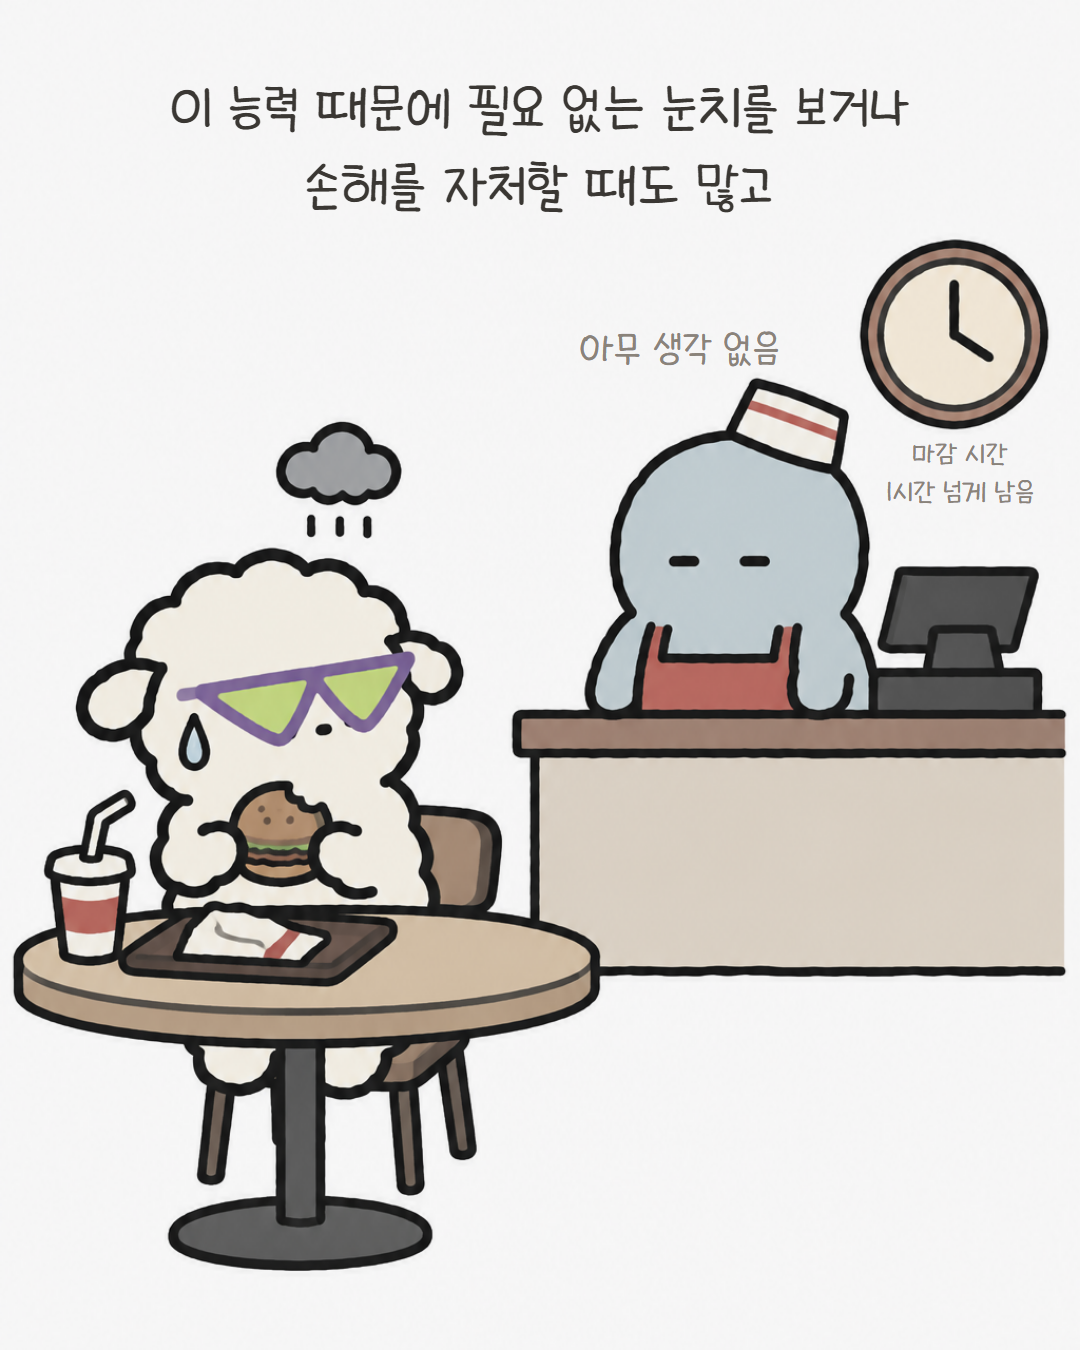
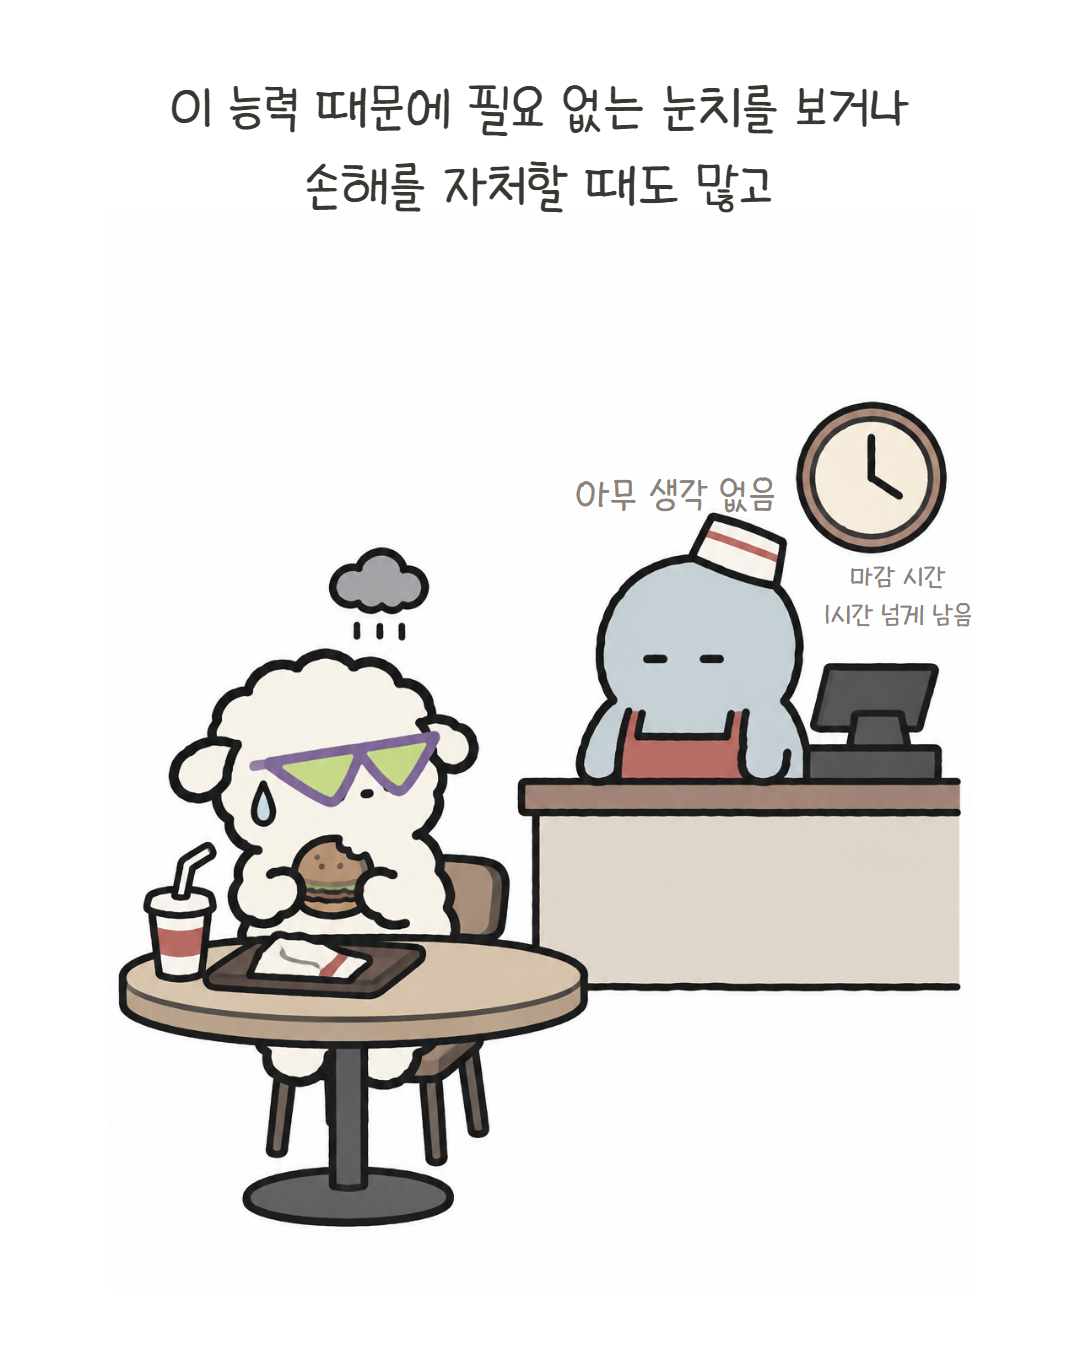
제목 「작은 힘에도 작은 책임은 따른다」로 변경, EP.01 제목·표지 폰트(콘콘체) 교체, 그림 80% 축소, 캡션 레퍼런스 벤치마크 반영

Changed region(s): [[0.0, 0.1556, 1.0, 0.9644]]

diff --git a/episodes/ep01/compose.html b/episodes/ep01/compose.html
@@ -2,54 +2,55 @@
 <html lang="ko">
 <head>
 <meta charset="utf-8">
-<title>EP.01 합성 — 말하지 않은 마음까지 읽는 초능력자</title>
+<title>EP.01 합성 — 알고 싶지 않은 마음까지 읽을 수 있는 초능력</title>
 <link href="https://fonts.googleapis.com/css2?family=Nanum+Pen+Script&display=swap" rel="stylesheet">
 <style>
+  @font-face{font-family:'CornCorn';src:url('https://cdn.jsdelivr.net/gh/projectnoonnu/2412-1@1.0/Ownglyph_corncorn-Rg.woff2') format('woff2');font-display:swap}
   @font-face{font-family:'KyoboHand';src:url('https://cdn.jsdelivr.net/gh/projectnoonnu/noonfonts_20-04@1.0/KyoboHand.woff') format('woff');font-display:swap}
   :root{--ink:#3A3733;--point:#C77B3F;--gray:#8A837A}
   *{box-sizing:border-box}
   body{margin:0;background:#ddd}
   section{position:relative;width:1080px;height:1350px;overflow:hidden;background:#fff;margin:0 auto 20px;font-family:'KyoboHand',sans-serif;color:var(--ink)}
-  section img.art{position:absolute;inset:0;width:1080px;height:1350px;object-fit:cover;object-position:50% 100%}
+  section img.art{position:absolute;left:0;bottom:60px;width:1080px;height:1350px;object-fit:cover;object-position:50% 100%;transform:scale(.8);transform-origin:50% 100%}
   section.cover img.art{object-fit:contain;object-position:50% 100%}
   .series{position:absolute;top:84px;left:80px;right:80px;text-align:center;font-size:44px;color:var(--gray);letter-spacing:.02em}
-  .title{position:absolute;top:150px;left:60px;right:60px;text-align:center;font-family:'Nanum Pen Script',cursive;font-size:118px;line-height:1.12;letter-spacing:-.01em}
+  .title{position:absolute;top:150px;left:40px;right:40px;text-align:center;font-family:'CornCorn',cursive;font-size:112px;line-height:1.18;letter-spacing:-.01em}
   .title b{font-weight:400;color:var(--point)}
   .narr{position:absolute;top:70px;left:50px;right:50px;text-align:center;font-size:56px;line-height:1.4;white-space:pre}
   .mind{position:absolute;font-size:40px;line-height:1.35;color:var(--gray);white-space:pre-line}
   .mind.s{font-size:30px}
   .mind.t{font-size:38px;color:#6E6862;background:#fff;padding:2px 10px}
-  #s7 img.art{transform:scale(.92);transform-origin:50% 100%}
   #s7 .cta{top:250px;bottom:auto}
   .cta{position:absolute;left:70px;right:70px;bottom:44px;text-align:center;font-size:38px;color:var(--point)}
-  .dim img.art{filter:saturate(.75) brightness(.97)}
+  .dim img.art{filter:saturate(.7)}
+  #s1 img.art{bottom:0}
 </style>
 </head>
 <body>
 
 <section class="cover" id="s0">
   <img class="art" src="img/cover.png" alt="">
-  <div class="series">당신은 약간 초능력자?</div>
-  <div class="title">말하지 않은 <b>마음</b>까지 읽는<br>초능력자</div>
+  <div class="series">작은 힘에도 작은 책임은 따른다</div>
+  <div class="title"><b>알고 싶지 않은</b> 마음까지<br>읽을 수 있는 초능력</div>
 </section>
 
 <section id="s1">
   <img class="art" src="img/cut1.png" alt="" style="object-position:50% 50%">
   <div class="narr">나는 사람들이 말하지 않아도
 그들의 마음을 읽을 수 있다.</div>
-  <div class="mind t" style="left:70px;top:500px">배고파</div>
-  <div class="mind t" style="right:70px;top:560px">집 가고 싶다</div>
-  <div class="mind t" style="left:90px;top:740px">괜찮은 척 하는 중</div>
-  <div class="mind t" style="right:90px;top:820px">쟤 왜 저래</div>
-  <div class="mind t" style="left:60px;top:960px">월요일 싫어</div>
-  <div class="mind t" style="right:60px;top:1010px">그냥 좀 쉬고 싶다</div>
+  <div class="mind t" style="left:164px;top:670px">배고파</div>
+  <div class="mind t" style="right:164px;top:718px">집 가고 싶다</div>
+  <div class="mind t" style="left:180px;top:862px">괜찮은 척 하는 중</div>
+  <div class="mind t" style="right:180px;top:926px">쟤 왜 저래</div>
+  <div class="mind t" style="left:156px;top:1038px">월요일 싫어</div>
+  <div class="mind t" style="right:156px;top:1078px">그냥 좀 쉬고 싶다</div>
 </section>
 
 <section id="s2">
   <img class="art" src="img/cut2.png" alt="">
   <div class="narr">이 능력 덕분에
 많은 이들로부터 환영을 받기도 하고</div>
-  <div class="mind" style="left:520px;top:1170px;width:420px;text-align:center">내 맘 알아 주는 건
+  <div class="mind" style="left:524px;top:1146px;width:420px;text-align:center">내 맘 알아 주는 건
 너밖에 없어</div>
 </section>
 
@@ -63,16 +64,16 @@
   <img class="art" src="img/cut4.png" alt="">
   <div class="narr">이 능력 때문에 필요 없는 눈치를 보거나
 손해를 자처할 때도 많고</div>
-  <div class="mind s" style="left:850px;top:436px;width:220px;text-align:center;font-size:28px">마감 시간
+  <div class="mind s" style="left:788px;top:559px;width:220px;text-align:center;font-size:28px">마감 시간
 1시간 넘게 남음</div>
-  <div class="mind" style="left:560px;top:322px;width:240px;text-align:center">아무 생각 없음</div>
+  <div class="mind" style="left:556px;top:468px;width:240px;text-align:center">아무 생각 없음</div>
 </section>
 
 <section id="s5" class="dim">
   <img class="art" src="img/cut5.png" alt="">
   <div class="narr">스스로의 마음을 돌보지 못하는 나를 미워하거나
 지난 날의 영웅적인 선택들까지 후회하기도 한다.</div>
-  <div class="mind" style="right:60px;top:1230px;width:460px;text-align:center">이건 초능력이 아니라 저주야...</div>
+  <div class="mind" style="right:156px;top:1194px;width:460px;text-align:center">이건 초능력이 아니라 저주야...</div>
 </section>
 
 <section id="s6">

diff --git a/episodes/ep01/preview.html b/episodes/ep01/preview.html
@@ -3,7 +3,7 @@
 <head>
 <meta charset="utf-8">
 <meta name="viewport" content="width=device-width,initial-scale=1">
-<title>EP.01 말하지 않은 마음까지 읽는 초능력자</title>
+<title>EP.01 알고 싶지 않은 마음까지 읽을 수 있는 초능력</title>
 <link href="https://fonts.googleapis.com/css2?family=Gowun+Dodum&display=swap" rel="stylesheet">
 <style>
   body{margin:0;padding:32px 12px 80px;background:#EFEAE2;color:#3A3733;font-family:'Gowun Dodum','Malgun Gothic',sans-serif;line-height:1.6}
@@ -17,7 +17,7 @@
 </head>
 <body>
 <main>
-  <h1>EP.01 말하지 않은 마음까지 읽는 초능력자</h1>
+  <h1>EP.01 알고 싶지 않은 마음까지 읽을 수 있는 초능력</h1>
   <p class="sub">표지 + 7컷 · 1080×1350 · 소품: 선글라스 · <a href="compose.html">compose.html</a> · <a href="https://github.com/willowttg/superwebtoon/blob/master/episodes/ep01/conti.md">콘티</a></p>
   <img src="img/slide1.png" alt="slide 1">
   <img src="img/slide2.png" alt="slide 2">
@@ -28,10 +28,19 @@
   <img src="img/slide7.png" alt="slide 7">
   <img src="img/slide8.png" alt="slide 8">
   <h1>캡션</h1>
-  <pre>말하지 않아도 마음이 읽히는 사람. 그 능력으로 남을 지키다 정작 나를 못 챙기는 날, 내가 지켜낸 사람들이 나를 지켜 줬다.
-당신 곁의 두부를 태그해 주세요.
+  <pre>나는 눈치가 빠르다는 말을 자주 듣는다.
+사실은 빠른 게 아니라, 안 보려고 해도 보이는 것뿐이다.
+표정이 한 번 흔들리면 그 사람이 괜찮지 않다는 걸 알아 버리고,
+그때부터는 내 하루가 아니라 그 사람의 하루를 살게 된다.
 
-#당신은약간초능력자 #인스타툰 #일상툰 #공감툰</pre>
+그게 힘들어서 이 능력을 꺼 버리고 싶은 날도 많았다.
+그런데 이상하게, 내가 못 챙긴 나를 챙겨 준 건
+늘 내가 먼저 알아봐 줬던 사람들이었다.
+
+당신 옆의 초능력자를 태그해 주세요.
+
+#작은힘에도작은책임은따른다 EP.01
+#인스타툰 #일상툰 #공감툰</pre>
 </main>
 </body>
 </html>

diff --git a/index.html b/index.html
@@ -3,7 +3,7 @@
 <head>
 <meta charset="utf-8">
 <meta name="viewport" content="width=device-width,initial-scale=1">
-<title>당신은 약간 초능력자? — 작업 프리뷰</title>
+<title>작은 힘에도 작은 책임은 따른다 — 작업 프리뷰</title>
 <link href="https://fonts.googleapis.com/css2?family=Gowun+Dodum&display=swap" rel="stylesheet">
 <style>
   :root{--ink:#3A3733;--point:#C77B3F}
@@ -31,7 +31,7 @@
 </head>
 <body>
 <main>
-  <h1>당신은 약간 초능력자?</h1>
+  <h1>작은 힘에도 작은 책임은 따른다</h1>
   <p class="sub">MBTI 유형별 성격적 단점을 "초능력"으로 재해석하는 일상 힐링 인스타툰.</p>
 
   <h2>캐릭터</h2>
@@ -81,7 +81,7 @@
 
   <h2>에피소드</h2>
   <a class="card" href="episodes/ep01/preview.html">
-    <b>EP.01 말하지 않은 마음까지 읽는 초능력자</b>
+    <b>EP.01 알고 싶지 않은 마음까지 읽을 수 있는 초능력</b>
     <span>표지 + 7컷 완성본 · 선글라스 편 · 고양이 3인조·점원 엑스트라 · 캡션 포함</span>
   </a>
 

diff --git a/assets/fonts.html b/assets/fonts.html
@@ -3,7 +3,7 @@
 <head>
 <meta charset="utf-8">
 <meta name="viewport" content="width=device-width,initial-scale=1">
-<title>폰트 후보 비교 — 당신은 약간 초능력자?</title>
+<title>폰트 후보 비교 — 작은 힘에도 작은 책임은 따른다</title>
 <link href="https://fonts.googleapis.com/css2?family=Nanum+Pen+Script&family=Gaegu:wght@400;700&family=Hi+Melody&family=Gowun+Dodum&display=swap" rel="stylesheet">
 <style>
   @font-face{font-family:'ParkDaHyun';src:url('https://cdn.jsdelivr.net/gh/projectnoonnu/2411-3@1.0/Ownglyph_ParkDaHyun.woff2') format('woff2');font-display:swap}

diff --git a/episodes/ep01/build_prompts.py b/episodes/ep01/build_prompts.py
@@ -1,6 +1,6 @@
 """EP.01 콘티·프롬프트 생성. python build_prompts.py (episodes/ep01 에서 실행)"""
 files = {}
-files['conti.md'] = """# EP.01 「말하지 않은 마음까지 읽는 초능력자」
+files['conti.md'] = """# EP.01 「알고 싶지 않은 마음까지 읽을 수 있는 초능력」
 
 주인공 두부. 소품: 알록달록 선글라스 (렌즈 연두 `#B5E550`, 테 보라 `#8E5BC7`, 가로로 긴 역삼각형). 이번 편은 망토 없음. 표지 + 7컷.
 

diff --git a/.claude/skills/make-episode/SKILL.md b/.claude/skills/make-episode/SKILL.md
@@ -1,6 +1,6 @@
 ---
 name: make-episode
-description: 「당신은 약간 초능력자?」 에피소드 1편 제작 — MBTI 유형의 단점을 초능력으로 재해석한 표지 + 7컷 캐러셀. 콘티 → 컷 이미지 생성 → 텍스트 합성 → 프리뷰 → 캡션. "에피소드 만들어", "EP.02", "INTJ 편", "콘티 짜줘", "컷 생성" 등에 사용.
+description: 「작은 힘에도 작은 책임은 따른다」 에피소드 1편 제작 — MBTI 유형의 단점을 초능력으로 재해석한 표지 + 7컷 캐러셀. 콘티 → 컷 이미지 생성 → 텍스트 합성 → 프리뷰 → 캡션. "에피소드 만들어", "EP.02", "INTJ 편", "콘티 짜줘", "컷 생성" 등에 사용.
 ---
 
 # make-episode
@@ -9,7 +9,7 @@ description: 「당신은 약간 초능력자?」 에피소드 1편 제작 — M
 
 ## 1. 기획 규칙
 
-- **제목** = 그 유형의 통용되는 단점을 능력처럼 바꾼 후킹 카피. 형식 `[…] 초능력자`. 예: INFP 「알고 싶지 않은 마음까지 읽는 초능력자」. 시리즈명 「당신은 약간 초능력자?」를 에피소드 제목 위에 작게 넣는다.
+- **제목** = 그 유형의 통용되는 단점을 능력처럼 바꾼 후킹 카피. 형식 `[…] 초능력`. 예: INFP 「알고 싶지 않은 마음까지 읽을 수 있는 초능력」. 시리즈명 「작은 힘에도 작은 책임은 따른다」를 에피소드 제목 위에 작게 넣는다.
 - **MBTI는 작품 어디에도 쓰지 않는다** (표지·컷·캡션·해시태그). 유형은 기획 입력값일 뿐이다.
 - 내용은 해당 유형 독자가 "이거 나잖아"라고 느껴야 한다. 유형 밈이 아니라 **구체적 상황**(약치기그림식)으로 쓴다.
 - 내레이션·속마음은 **1인칭**("나는 …"). 3인칭 설명("이 유형은 …")으로 쓰지 않는다. CTA만 독자에게 말한다.
@@ -58,7 +58,7 @@ episodes/epNN/
   caption.txt     캡션 1–2줄 + 고정 해시태그
 ```
 
-- 고정 해시태그: `#당신은약간초능력자 #인스타툰 #일상툰 #공감툰` (MBTI 관련 태그 없음)
+- 고정 해시태그: `#작은힘에도작은책임은따른다 EP.NN` 줄 + `#인스타툰 #일상툰 #공감툰` (MBTI 관련 태그 없음)
 - `index.html` 콘티 프리뷰 섹션에 카드 추가 → 커밋. **푸시는 사용자 확인 후.**
 
 ## 5. 체크리스트 (커밋 전)

diff --git a/CLAUDE.md b/CLAUDE.md
@@ -1,4 +1,4 @@
-# 당신은 약간 초능력자?
+# 작은 힘에도 작은 책임은 따른다
 
 MBTI 유형별로 통용되는 성격적 단점을 긍정적 "초능력"으로 재해석하는 일상 힐링 인스타툰. 주인공은 크림색 양 두부. 캐스트는 assets/characters.md. 작품 안에 MBTI를 드러내지 않는다.
 한 편 = 표지 + 7컷 (설명 1 / 장점 2 / 단점 3 / 마무리 1). 목표: 공감 → 위로 → 친구 태그 바이럴.

diff --git a/episodes/ep01/conti.md b/episodes/ep01/conti.md
@@ -1,4 +1,4 @@
-# EP.01 「말하지 않은 마음까지 읽는 초능력자」
+# EP.01 「알고 싶지 않은 마음까지 읽을 수 있는 초능력」
 
 주인공 두부. 소품: 알록달록 선글라스 (렌즈 연두 `#B5E550`, 테 보라 `#8E5BC7`, 가로로 긴 역삼각형). 이번 편은 망토 없음. 표지 + 7컷.
 

diff --git a/README.md b/README.md
@@ -1,4 +1,4 @@
-# 당신은 약간 초능력자?
+# 작은 힘에도 작은 책임은 따른다
 
 MBTI 유형별로 통용되는 성격적 단점을 **"초능력"**으로 재해석하는 일상 힐링 인스타툰.
 
